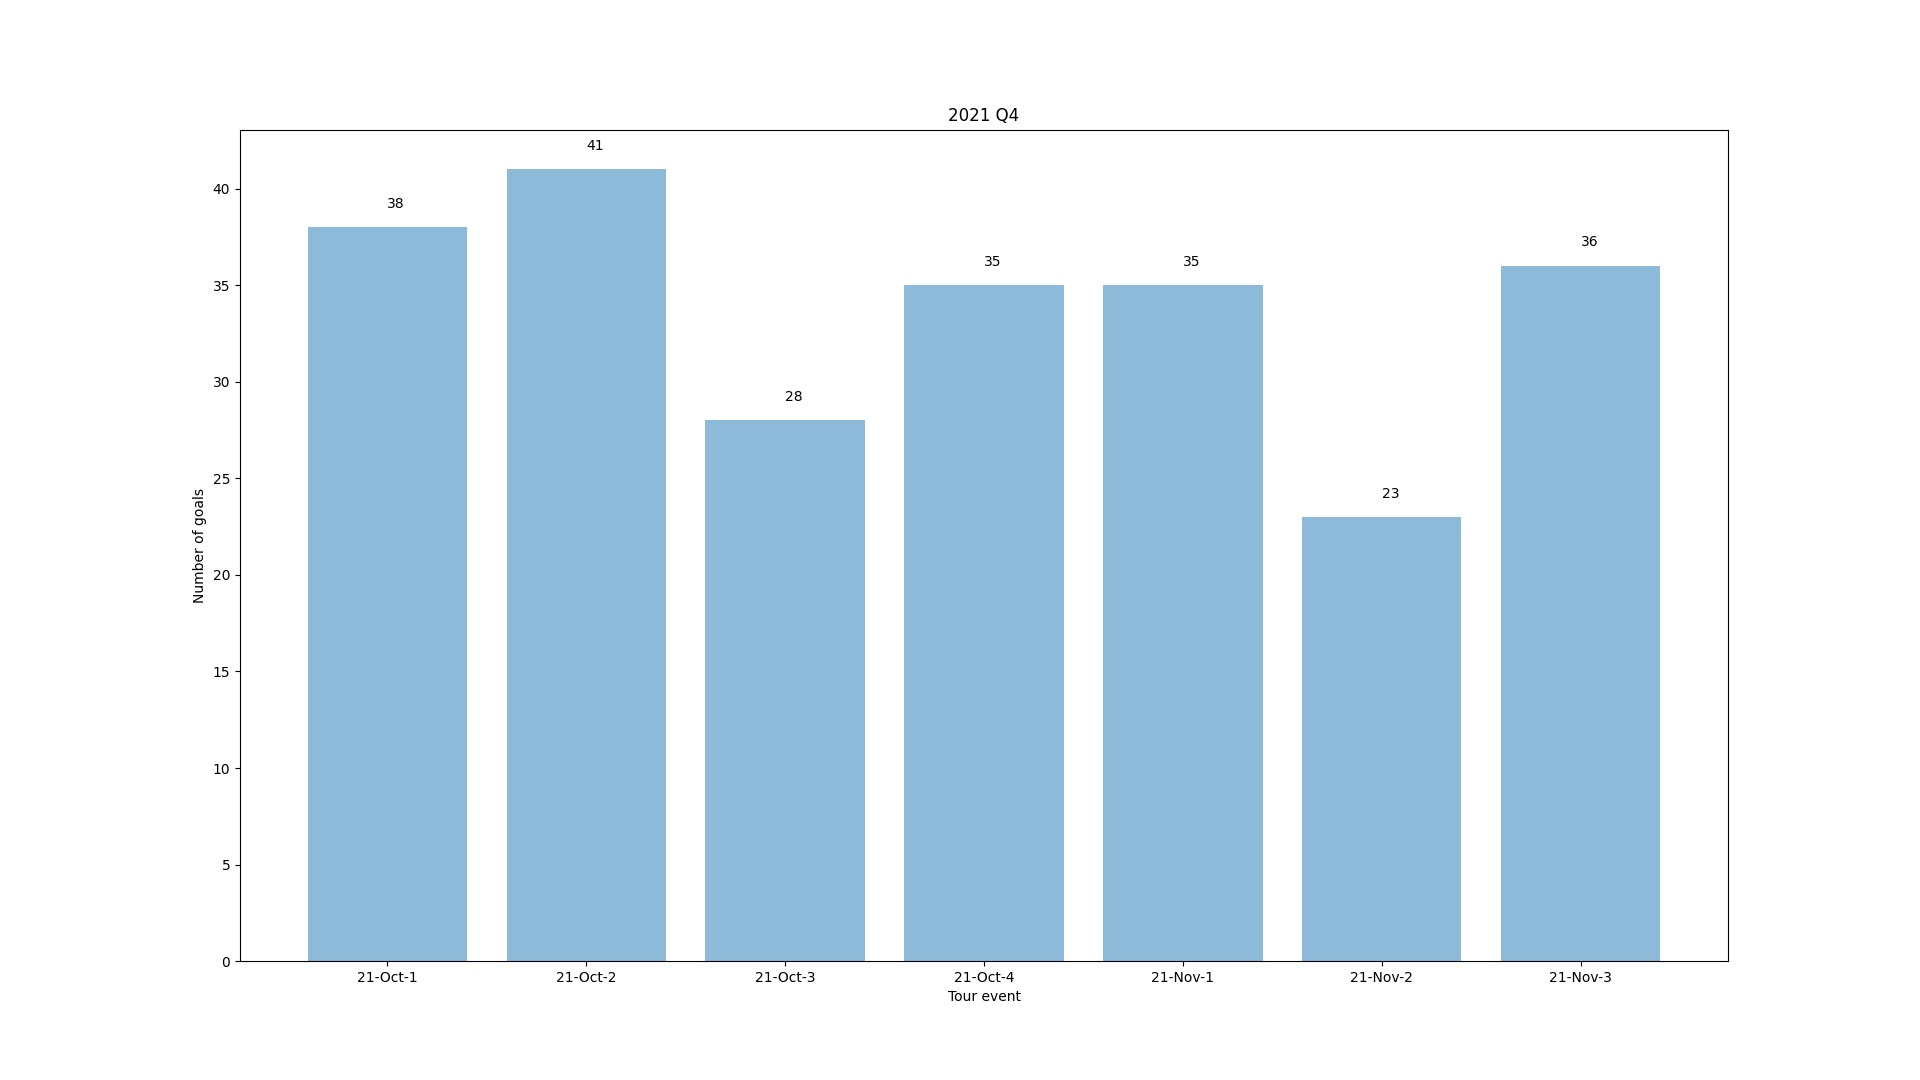
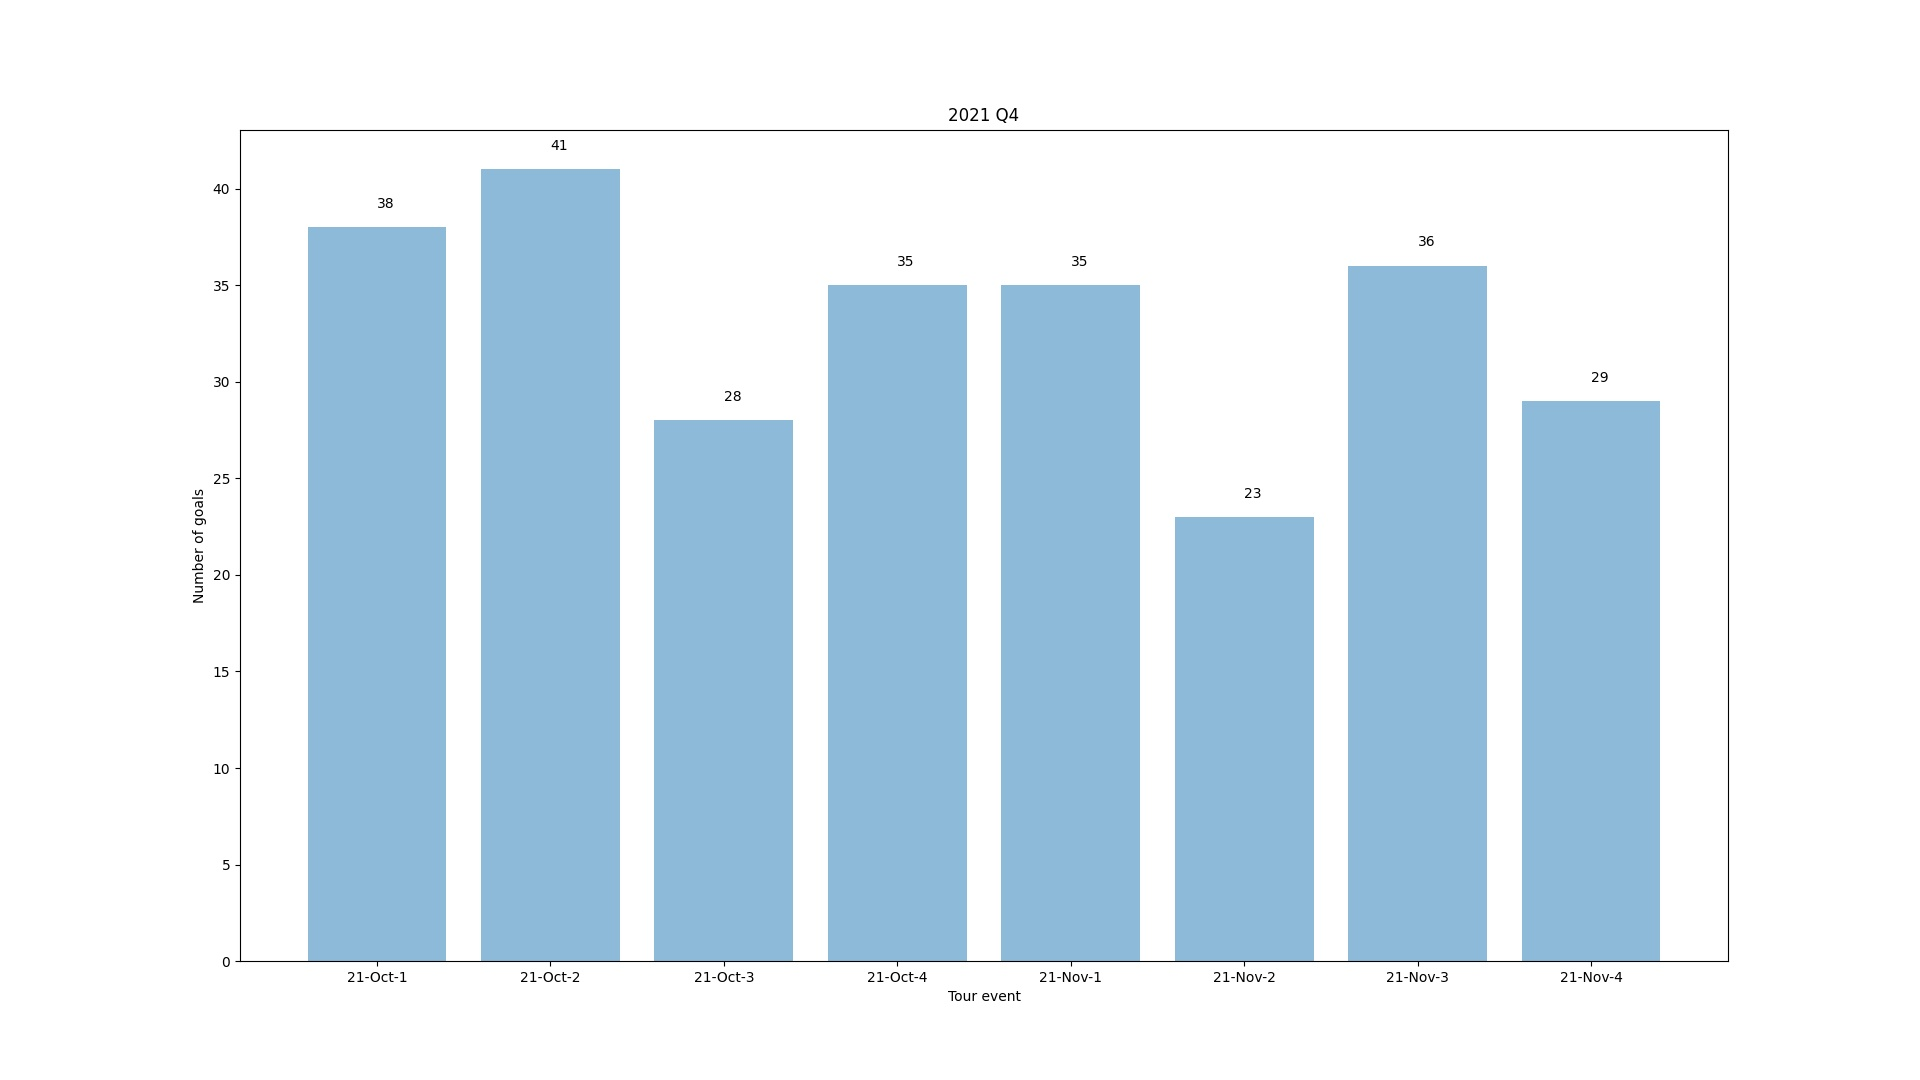
2021 November week 4 update

diff --git a/internal/testing/fib.py b/internal/testing/fib.py
@@ -1,0 +1,9 @@
+n = int(input())
+a = 0
+b = 1
+print("0")
+for i in range(n):
+    c = a+b
+    a = b
+    b = c
+    print(c)
